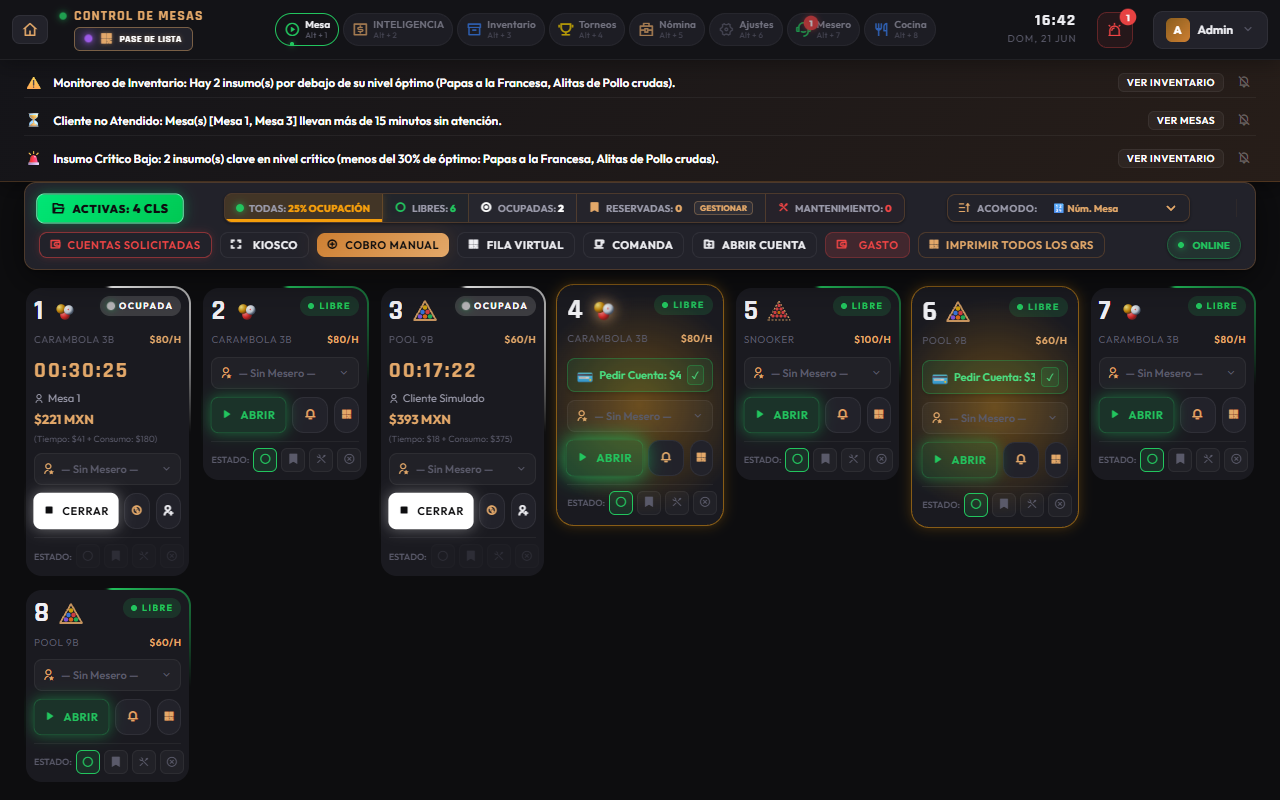
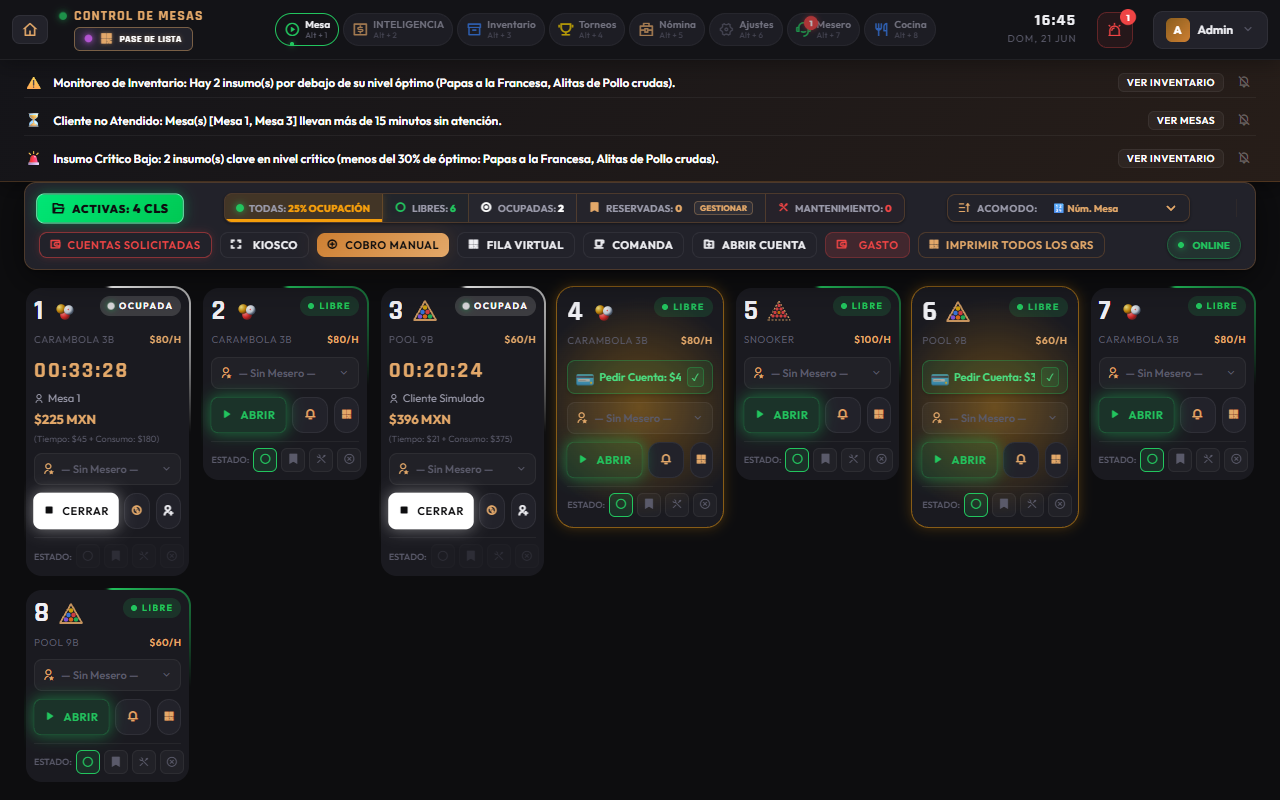
Actualizacion: 21/06/2026 16:47:48.30

diff --git a/scratch/find_undefined_err.js b/scratch/find_undefined_err.js
@@ -1,0 +1,11 @@
+const fs = require('fs');
+
+const content = fs.readFileSync('app/mesero/page.js', 'utf8');
+const lines = content.split('\n');
+
+// Buscar dónde se usa 'err' y no está en la firma de un catch o parámetro
+lines.forEach((line, idx) => {
+  if (line.includes('err')) {
+    console.log(`${idx + 1}: ${line.trim()}`);
+  }
+});

diff --git a/app/mesero/page.js b/app/mesero/page.js
@@ -577,6 +577,7 @@ function MeseroContent() {
           { id: 6, nombre: 'Café Americano', categoria: 'Bebida', precioVenta: 35, stock: 0 },
         ]);
       }
+    }, err => {
       console.warn('Error al cargar inventario de bar en vista mesero:', err);
     });
     return unsub;